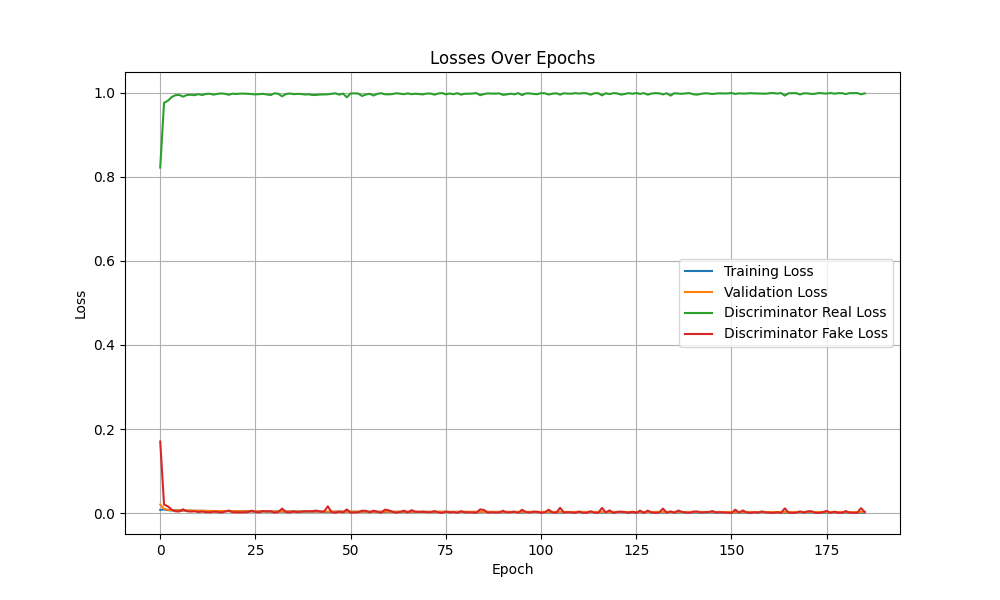
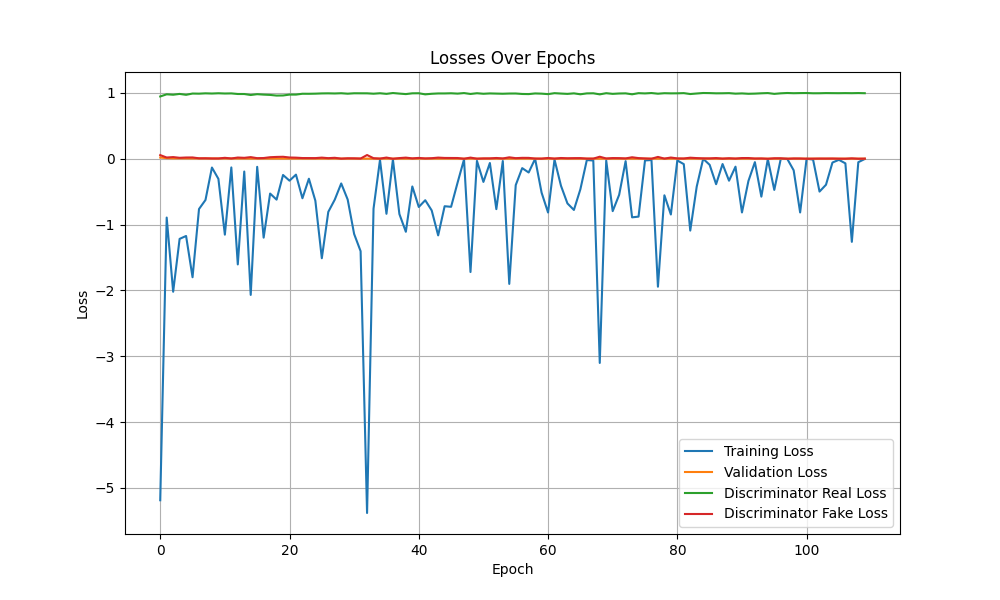
grid search

diff --git a/src/LGnet/main_adv_grid.py b/src/LGnet/main_adv_grid.py
@@ -1,36 +1,16 @@
 import itertools
 import time
 
-import matplotlib.pyplot as plt
 import numpy as np
 import pandas as pd
 import torch
 import torch.nn as nn
 import torch.utils.data as utils
-from Discriminator import *
-from LGnet_ import *
+from LGnet_adv import *
 
 
 def wasserstein_loss(y_pred, y_true):
     return torch.mean(y_pred * y_true)
-
-
-def plot_losses_combined(losses_train, losses_valid, losses_d_real, losses_d_fake, filename):
-    plt.figure(figsize=(10, 6))
-
-    plt.plot(losses_train, label="Training Loss")
-    plt.plot(losses_valid, label="Validation Loss")
-    plt.plot(losses_d_real, label="Discriminator Real Loss")
-    plt.plot(losses_d_fake, label="Discriminator Fake Loss")
-
-    plt.title("Losses Over Epochs")
-    plt.xlabel("Epoch")
-    plt.ylabel("Loss")
-    plt.legend()
-    plt.grid(True)
-
-    plt.savefig(filename)
-    plt.show()
 
 
 def PrepareDataset(
@@ -181,23 +161,13 @@ def PrepareDataset(
     return train_dataloader, valid_dataloader, test_dataloader, max_speed, X_mean
 
 
-def Train_Model(
-    model,
-    discriminator,
-    train_dataloader,
-    valid_dataloader,
-    num_epochs=300,
-    patience=10,
-    min_delta=0.00001,
-    lambda_dis=0.1,
-):
+def Train_Model(model, train_dataloader, valid_dataloader, num_epochs=300, patience=10, min_delta=0.00001):
     print("Model Structure: ", model)
     print("Start Training ... ")
 
     device = torch.device("cuda" if torch.cuda.is_available() else "cpu")
 
     model.to(device)
-    discriminator.to(device)
 
     if type(model) == nn.modules.container.Sequential:
         output_last = model[-1].output_last
@@ -211,8 +181,6 @@ def Train_Model(
 
     learning_rate = 0.0005
     optimizer = torch.optim.RMSprop(model.parameters(), lr=learning_rate)
-    optimizer_adv = torch.optim.RMSprop(discriminator.parameters(), lr=learning_rate)
-    adversarial_loss = wasserstein_loss
     use_gpu = torch.cuda.is_available()
 
     interval = 100
@@ -220,8 +188,6 @@ def Train_Model(
     losses_valid = []
     losses_epochs_train = []
     losses_epochs_valid = []
-    losses_epochs_d_loss_real = []
-    losses_epochs_d_loss_fake = []
 
     cur_time = time.time()
     pre_time = time.time()
@@ -231,7 +197,6 @@ def Train_Model(
     patient_epoch = 0
     for epoch in range(num_epochs):
         model.train()
-        discriminator.train()
         # if use_gpu:
         #     mem_allocated = torch.cuda.memory_allocated() / (1024 * 1024)  # MB単位で取得
         #     print(f"Epoch {epoch}: GPU memory allocated at start of epoch: {mem_allocated:.2f} MB")
@@ -243,16 +208,12 @@ def Train_Model(
         losses_epoch_train = []
         losses_epoch_valid = []
 
-        losses_epoch_d_loss_real = []
-        losses_epoch_d_loss_fake = []
-
         # if use_gpu:
         #     mem_allocated = torch.cuda.memory_allocated() / (1024 * 1024)  # MB単位で取得
         #     print(f"Epoch {epoch}: GPU memory allocated at before train: {mem_allocated:.2f} MB")
 
         for data in train_dataloader:
             model.train()
-            discriminator.train()
             inputs, labels = data
 
             if inputs.shape[0] != batch_size:
@@ -266,45 +227,16 @@ def Train_Model(
             # print("inputs")
             # print(inputs.shape)
 
-            optimizer_adv.zero_grad()
-
-            forecasts, generation = model(inputs)
-            real_predictions = discriminator(labels)
-            fake_predictions = discriminator(generation.detach())
-
-            d_loss_real = adversarial_loss(real_predictions, torch.ones_like(real_predictions))
-            d_loss_fake = adversarial_loss(fake_predictions, torch.ones_like(fake_predictions))
-
-            d_loss = -d_loss_real + d_loss_fake
-            # print(f"d_loss_real: {d_loss_real}")
-            # print(f"d_loss_fake: {d_loss_fake}")
-
-            losses_epoch_d_loss_real.append(d_loss_real.data)
-            losses_epoch_d_loss_fake.append(d_loss_fake.data)
-
-            d_loss.backward()
-
-            optimizer_adv.step()
-
-            # print("forecasts")
-            # print(forecasts.shape)
-
             optimizer.zero_grad()
 
             # Forecasting
-            outputs, generations = model(inputs)
-
-            forecasts_prediction = discriminator(generations.detach())
-            g_loss_forecast = adversarial_loss(forecasts_prediction, torch.ones_like(forecasts_prediction))
-
-            # print(f"generations: {generations.shape}")
-            # print(f"forecasts_prediction: {forecasts_prediction.shape}")
+            outputs = model(inputs)
 
             if output_last:
-                loss_train = loss_MSE(torch.squeeze(outputs), torch.squeeze(labels)) - lambda_dis * g_loss_forecast
+                loss_train = loss_MSE(torch.squeeze(outputs), torch.squeeze(labels))
             else:
                 full_labels = torch.cat((inputs[:, 1:, :], labels), dim=1)
-                loss_train = loss_MSE(outputs, full_labels) - lambda_dis * g_loss_forecast
+                loss_train = loss_MSE(outputs, full_labels)
 
             losses_train.append(loss_train.data)
             losses_epoch_train.append(loss_train.data)
@@ -339,7 +271,7 @@ def Train_Model(
                 inputs_val, labels_val = inputs_val, labels_val
 
             with torch.no_grad():
-                outputs_val, generations = model(inputs_val)
+                outputs_val = model(inputs_val)
 
                 if output_last:
                     loss_valid = loss_MSE(torch.squeeze(outputs_val), torch.squeeze(labels_val))
@@ -367,15 +299,6 @@ def Train_Model(
         losses_epochs_train.append(avg_losses_epoch_train)
         losses_epochs_valid.append(avg_losses_epoch_valid)
 
-        avg_losses_epoch_d_loss_real = sum(losses_epoch_d_loss_real).cpu().numpy() / float(
-            len(losses_epoch_d_loss_real)
-        )
-        avg_losses_epoch_d_loss_fake = sum(losses_epoch_d_loss_fake).cpu().numpy() / float(
-            len(losses_epoch_d_loss_fake)
-        )
-        losses_epochs_d_loss_real.append(avg_losses_epoch_d_loss_real)
-        losses_epochs_d_loss_fake.append(avg_losses_epoch_d_loss_fake)
-
         # Early Stopping
         if epoch == 0:
             is_best_model = 1
@@ -399,11 +322,9 @@ def Train_Model(
         # Print training parameters
         cur_time = time.time()
         print(
-            "Epoch: {}, train_loss: {}, d_loss_real: {}, d_loss_fake: {}, valid_loss: {}, time: {}, best model: {}".format(
+            "Epoch: {}, train_loss: {}, valid_loss: {}, time: {}, best model: {}".format(
                 epoch,
                 np.around(avg_losses_epoch_train, decimals=8),
-                np.around(avg_losses_epoch_d_loss_real, decimals=8),
-                np.around(avg_losses_epoch_d_loss_fake, decimals=8),
                 np.around(avg_losses_epoch_valid, decimals=8),
                 np.around([cur_time - pre_time], decimals=2),
                 is_best_model,
@@ -414,14 +335,6 @@ def Train_Model(
         if use_gpu:
             mem_allocated = torch.cuda.memory_allocated() / (1024 * 1024)  # MB単位で取得
             print(f"Epoch {epoch}: GPU memory allocated at end of epoch: {mem_allocated:.2f} MB")
-
-    # plot_losses_combined(
-    #     losses_epochs_train,
-    #     losses_epochs_valid,
-    #     losses_epochs_d_loss_real,
-    #     losses_epochs_d_loss_fake,
-    #     "combined_losses.png",
-    # )
 
     return best_model, [losses_train, losses_valid, losses_epochs_train, losses_epochs_valid]
 
@@ -461,7 +374,7 @@ def Test_Model(model, test_dataloader, max_speed):
         else:
             inputs, labels = inputs, labels
 
-        outputs, generation = model(inputs)
+        outputs = model(inputs)
 
         loss_MSE = torch.nn.MSELoss()
         loss_L1 = torch.nn.L1Loss()
@@ -515,7 +428,7 @@ def grid_search_lgnet(
     results = []
 
     for memory_size, lambda_dis in itertools.product(memory_sizes, lambda_dis_values):
-        lgnet = LGnet_(
+        lgnet = LGnet_adv(
             input_dim,
             hidden_dim,
             output_dim,
@@ -525,15 +438,13 @@ def grid_search_lgnet(
             num_layers=1,
             output_last=True,
         )
-        adv = Discriminator(input_dim)
 
-        best_lgnet, losses_lgnet = Train_Model(lgnet, adv, train_dataloader, valid_dataloader, lambda_dis=lambda_dis)
+        best_lgnet, losses_lgnet = Train_Model(lgnet, train_dataloader, valid_dataloader)
         [mean_l1, std_l1, MAE_, MAPE_] = Test_Model(best_lgnet, test_dataloader, max_speed)
 
         results.append(
             {
                 "memory_size": memory_size,
-                "lambda_dis": lambda_dis,
                 "L1_mean": mean_l1,
                 "L1_std": std_l1,
                 "MAE": MAE_,
@@ -542,7 +453,6 @@ def grid_search_lgnet(
         )
 
         del lgnet
-        del adv
         torch.cuda.empty_cache()
 
     results_df = pd.DataFrame(results)
@@ -567,9 +477,9 @@ if __name__ == "__main__":
     hidden_dim = fea_size
     output_dim = fea_size
 
-    memory_sizes = [8, 16, 32, 64, 128]
-    lambda_dis_values = [0, 0.1, 1.0, 10, 100]
-    output_path = "/workspaces/STdata_prediction/src/LGnet/output/grid_search_results_ln0001.csv"
+    memory_sizes = [8,16,32,64,128]
+    lambda_dis_values = [0]
+    output_path = "/workspaces/STdata_prediction/src/LGnet/output/grid_search_results_adv.csv"
 
     grid_search_lgnet(
         memory_sizes,

diff --git a/src/LGnet/main_mem_grid.py b/src/LGnet/main_mem_grid.py
@@ -8,7 +8,7 @@ import torch
 import torch.nn as nn
 import torch.utils.data as utils
 from Discriminator import *
-from LGnet_ import *
+from LGnet_mem import *
 
 
 def wasserstein_loss(y_pred, y_true):
@@ -182,14 +182,7 @@ def PrepareDataset(
 
 
 def Train_Model(
-    model,
-    discriminator,
-    train_dataloader,
-    valid_dataloader,
-    num_epochs=300,
-    patience=10,
-    min_delta=0.00001,
-    lambda_dis=0.1,
+    model, discriminator, train_dataloader, valid_dataloader, num_epochs=300, patience=10, min_delta=0.00001, lambda_dis=0.1
 ):
     print("Model Structure: ", model)
     print("Start Training ... ")
@@ -292,13 +285,10 @@ def Train_Model(
             optimizer.zero_grad()
 
             # Forecasting
-            outputs, generations = model(inputs)
+            outputs, generation = model(inputs)
 
-            forecasts_prediction = discriminator(generations.detach())
-            g_loss_forecast = adversarial_loss(forecasts_prediction, torch.ones_like(forecasts_prediction))
-
-            # print(f"generations: {generations.shape}")
-            # print(f"forecasts_prediction: {forecasts_prediction.shape}")
+            forecasts_prediction = discriminator(generation.detach())
+            g_loss_forecast = adversarial_loss(forecasts_prediction, torch.ones_like(real_predictions))
 
             if output_last:
                 loss_train = loss_MSE(torch.squeeze(outputs), torch.squeeze(labels)) - lambda_dis * g_loss_forecast
@@ -339,7 +329,7 @@ def Train_Model(
                 inputs_val, labels_val = inputs_val, labels_val
 
             with torch.no_grad():
-                outputs_val, generations = model(inputs_val)
+                outputs_val, generation = model(inputs_val)
 
                 if output_last:
                     loss_valid = loss_MSE(torch.squeeze(outputs_val), torch.squeeze(labels_val))
@@ -415,13 +405,13 @@ def Train_Model(
             mem_allocated = torch.cuda.memory_allocated() / (1024 * 1024)  # MB単位で取得
             print(f"Epoch {epoch}: GPU memory allocated at end of epoch: {mem_allocated:.2f} MB")
 
-    # plot_losses_combined(
-    #     losses_epochs_train,
-    #     losses_epochs_valid,
-    #     losses_epochs_d_loss_real,
-    #     losses_epochs_d_loss_fake,
-    #     "combined_losses.png",
-    # )
+    plot_losses_combined(
+        losses_epochs_train,
+        losses_epochs_valid,
+        losses_epochs_d_loss_real,
+        losses_epochs_d_loss_fake,
+        "combined_losses_mem.png",
+    )
 
     return best_model, [losses_train, losses_valid, losses_epochs_train, losses_epochs_valid]
 
@@ -506,6 +496,7 @@ def Test_Model(model, test_dataloader, max_speed):
     MAPE_ = np.mean(MAPEs) * 100
 
     print("Tested: L1_mean: {}, L1_std: {}, MAE: {} MAPE: {}".format(mean_l1, std_l1, MAE_, MAPE_))
+
     return [mean_l1, std_l1, MAE_, MAPE_]
 
 
@@ -515,7 +506,7 @@ def grid_search_lgnet(
     results = []
 
     for memory_size, lambda_dis in itertools.product(memory_sizes, lambda_dis_values):
-        lgnet = LGnet_(
+        lgnet = LGnet_mem(
             input_dim,
             hidden_dim,
             output_dim,
@@ -532,7 +523,6 @@ def grid_search_lgnet(
 
         results.append(
             {
-                "memory_size": memory_size,
                 "lambda_dis": lambda_dis,
                 "L1_mean": mean_l1,
                 "L1_std": std_l1,
@@ -567,9 +557,9 @@ if __name__ == "__main__":
     hidden_dim = fea_size
     output_dim = fea_size
 
-    memory_sizes = [8, 16, 32, 64, 128]
+    memory_sizes = [128]
     lambda_dis_values = [0, 0.1, 1.0, 10, 100]
-    output_path = "/workspaces/STdata_prediction/src/LGnet/output/grid_search_results_ln0001.csv"
+    output_path = "/workspaces/STdata_prediction/src/LGnet/output/grid_search_results_mem_ln0005.csv"
 
     grid_search_lgnet(
         memory_sizes,
